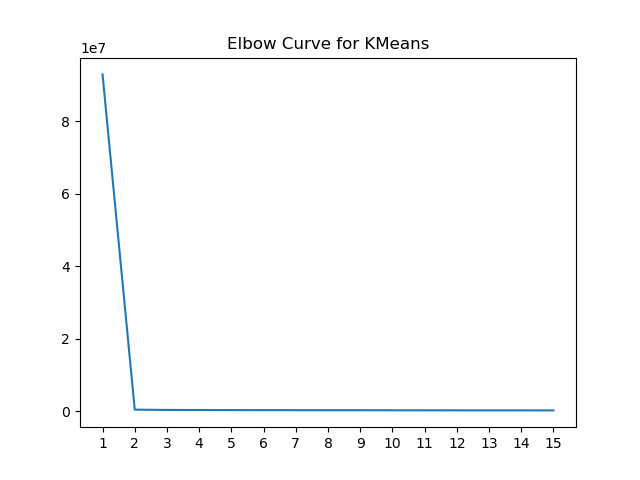
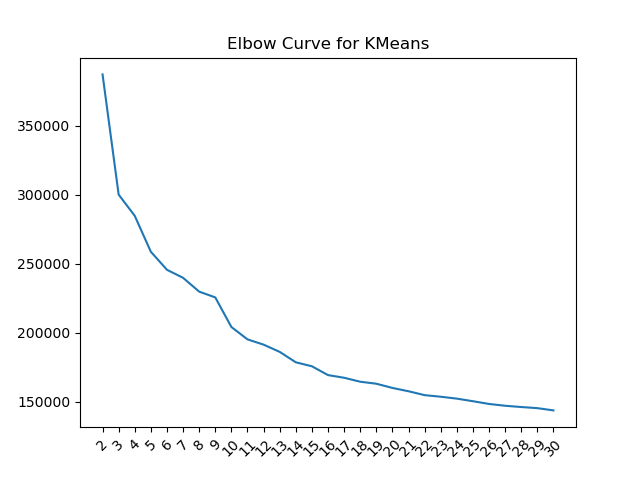
now the pipeline can switch between kmeans only and model. and also it can switch between classification and regression

diff --git a/pipeline/argument_parser.py b/pipeline/argument_parser.py
@@ -21,15 +21,15 @@ filenames.add_argument('--credit_record', default='dataset/credit_record.csv', h
 # processed data 
 filenames.add_argument('--customer_risk', default='dataset/customer_risk.csv', help= 'processed data ')
 filenames.add_argument('--applications_processed', default='dataset/applications_processed.csv', help='processed data ')
-filenames.add_argument('--application_record_pipeline', default= 'pipeline/application_record_pipeline.pkl', help= 'application pipeline for processing')
+filenames.add_argument('--application_record_pipeline', default= 'model_info/application_record_pipeline.pkl', help= 'application pipeline for processing')
 filenames.add_argument('--data', default='dataset/data.csv', help='the customer_risk and applications_processed joined dataset')
 filenames.add_argument('--elbow_curve_for_kmeans', default='images/elbow_curve_for_kmeans.png', help= 'location to save the elbow curve')
 
 dataprocessing= parser.add_argument_group(title = 'args for mode data_processing')
-dataprocessing.add_argument('--target_mode', options= ['classification', 'regression'], default = 'classification', title= 'decides if the dataset created will have credit risk as a continuous feature')
+dataprocessing.add_argument('--target_mode', choices= ['classification', 'regression'], default = 'classification', help= 'decides if the dataset created will have credit risk as a continuous feature')
 
 model= parser.add_argument_group(title= 'args for model')
-model.add_argument('--model_type', default= ['fnn'], 
+model.add_argument('--model_type', default= 'fnn', 
                    choices=['slp', 'fnn', 'kmeans_fnn', 'autoencoder_kmeans_knn'],
                    required=False , help= 'pick the model to work on')
 # data to read in is: --data 
@@ -38,10 +38,11 @@ model.add_argument('--batch_size', default = 1000, type = int, help='smaller bat
 model.add_argument('--lr', default = .0001, type = float)
 model.add_argument('--epochs', default = 5, type= int )
 model.add_argument('--hidden_sizes', nargs= '+', type= int, default= [30, 20], help= 'list of hidden sizes for the hidden layers')
-model.add_argument('--k_value', default = 7, type= int, help= 'k value to determine the number of clusters for the KMeans model')
+model.add_argument('--k_value', default = 11, type= int, help= 'k value to determine the number of clusters for the KMeans model')
+# 11 clusters decided by the kmeans_only option in the pipeline 
 
 clustering = parser.add_argument_group(title='args to deal with various k for kmeans(clustering)')
-clustering= parser.add_argument('--k_values' , nargs= 2, default = [1, 5], type= int, help= 'the starting and ending k values to plot the elbow curve for. min of 1 cluster' )
+clustering= parser.add_argument('--k_values' , nargs= 2, default = [2, 5], type= int, help= 'the starting and ending k values to plot the elbow curve for. min of 1 cluster' )
 
 
 args= parser.parse_args()
@@ -54,3 +55,4 @@ from driver import Driver
 
 driver_class= Driver(args)
 driver_class.do_mode()
+

diff --git a/pipeline/train.py b/pipeline/train.py
@@ -1,6 +1,6 @@
 import torch 
 
-from torch.nn import CrossEntropyLoss # MSELoss for continuous loss 
+from torch.nn import CrossEntropyLoss , MSELoss # for continuous loss 
 from torch.optim import Adam 
 
 from models import SLP, FNN, KMeansFNN, AutoencoderKMeansFNN 
@@ -55,7 +55,10 @@ class Train:
         # layer sizes 
         input_size= 35 # next(iter(train_loader))...... 
         hidden_sizes = self.args.hidden_sizes  
-        output_size = 5 # number of classes in risk_level 
+        if self.args.target_mode == 'classification': 
+            output_size = 5 # number of classes in risk_level 
+        else: 
+            output_size = 1 
 
 
         # get the model, optimizer, and loss function 
@@ -64,7 +67,11 @@ class Train:
         # place model onto gpu 
         model = model.to(self.args.device)
 
-        loss= CrossEntropyLoss() # combines softmax and NLL 
+        if self.args.target_mode == 'classification': 
+            loss= CrossEntropyLoss() # combines softmax and NLL 
+        else: 
+            loss= MSELoss()
+
         optimizer= Adam(model.parameters(), lr= self.args.lr )
 
         
@@ -77,7 +84,6 @@ class Train:
 
 
         for epoch in range(self.args.epochs): 
-            print('epoch', epoch)
             epoch_loss = 0 
             epoch_loss_test = 0 
 
@@ -89,6 +95,9 @@ class Train:
 
 
                 pred  = model(x)
+                if self.args.target_mode == 'regression': 
+                    pred= pred.flatten()# for correct shape MSELoss 
+
                 batch_loss = loss(pred, y) # y is dtype long for CE Loss 
 
                 epoch_loss += batch_loss.item()
@@ -105,6 +114,9 @@ class Train:
                 y= y.to(self.args.device)
 
                 pred = model(x)
+                if self.args.target_mode == 'regression': 
+                    pred= pred.flatten()# for correct shape MSELoss 
+                    
                 new = torch.argmax(pred, axis= -1 )
                
                 batch_loss = loss(pred, y)
@@ -113,7 +125,7 @@ class Train:
 
 
             print('epoch', epoch, 'losses for train and test: ', epoch_loss, epoch_loss_test)
-
+        
         # raise Exception('here')
         return None 
         

diff --git a/pipeline/data_processing.py b/pipeline/data_processing.py
@@ -43,16 +43,20 @@ class DataProcessing:
         # make ID feature from index 
         creditworthiness.reset_index(drop= False, inplace= True )
 
-        # discreditize into bins 
-        score_mean= creditworthiness.summed.where(creditworthiness.summed > 0 ).mean()
-        score_std= creditworthiness.summed.where(creditworthiness.summed > 0 ).std()
-            # pd.cut is right selctive ( , ] ranges with right= True setting 
-        ranges= (-float('inf'),0, score_mean- score_std, score_mean, score_mean + score_std, float('inf'))
-        range_titles= range(0, 5) # range_titles= ('none', 'low', 'medium_low', 'medium_high', 'high')
-        creditworthiness['risk_level']= pd.cut(creditworthiness['summed'], bins=ranges, labels=range_titles, right= True)
-        
-        # drop unneded cols 
-        creditworthiness.drop(labels=['summed'], axis = 1, inplace=True )
+        if self.args.target_mode == 'classification': 
+            # discreditize into bins 
+            score_mean= creditworthiness.summed.where(creditworthiness.summed > 0 ).mean()
+            score_std= creditworthiness.summed.where(creditworthiness.summed > 0 ).std()
+                # pd.cut is right selctive ( , ] ranges with right= True setting 
+            ranges= (-float('inf'),0, score_mean- score_std, score_mean, score_mean + score_std, float('inf'))
+            range_titles= range(0, 5) # range_titles= ('none', 'low', 'medium_low', 'medium_high', 'high')
+            creditworthiness['risk_level']= pd.cut(creditworthiness['summed'], bins=ranges, labels=range_titles, right= True)
+            
+            # drop unneded cols 
+            creditworthiness.drop(labels=['summed'], axis = 1, inplace=True )
+
+        else : # regression
+            creditworthiness.rename( {'summed': 'risk_level'}, axis = 1, inplace= True )
 
         return creditworthiness
 

diff --git a/pipeline/model_helper.py b/pipeline/model_helper.py
@@ -35,7 +35,11 @@ class ModelHelper:
 
         # convert to torch
         x= torch.tensor(x.values, dtype= torch.float32 ) # note pytorch always intialized model to dtype float32 
-        y= torch.tensor(y, dtype= torch.long) # crossentropyloss expects dtype long
+        if self.args.target_mode == 'classification': 
+            y= torch.tensor(y, dtype= torch.long) # crossentropyloss expects dtype long
+        else : 
+            y= torch.tensor(y, dtype= torch.float32)
+
 
         # train test split 
         xtrain, xtest, ytrain, ytest = train_test_split(x, y, test_size =.30, shuffle= True, random_state = 1 )

diff --git a/pipeline/plotting.py b/pipeline/plotting.py
@@ -12,7 +12,7 @@ class Plotting:
 
         plt.plot(x, y)
         plt.title('Elbow Curve for KMeans')
-        plt.xticks(x)
+        plt.xticks(x, rotation= 45)
         plt.savefig(self.args.elbow_curve_for_kmeans)
         plt.show ()
 
